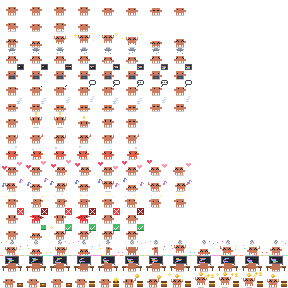
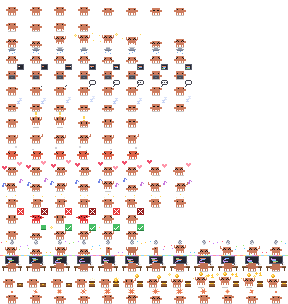
Clawd sprites: add clauding animation (spinner glyph cycle)
Claude-Session: https://claude.ai/code/session_012EE4yLBMHANjgeoVrutEYN

diff --git a/art/clawd/generate.py b/art/clawd/generate.py
@@ -612,6 +612,39 @@ def anim_claiming():
     return frames, 8
 
 
+def spinner_glyph(cv, stage, rot, cx=11.5, cy=3.5):
+    """Pixel take on Claude Code's spinner: · ✢ ✳ ✶ ✻ ✽ (stage 0-5)."""
+    import math
+    core, tip = (232, 128, 92, 255), (255, 196, 160, 255)
+    cv.rect(11, 3, 12, 4, core)
+    if stage == 0:
+        return
+    rays, length = [(4, 2.2), (8, 2.2), (6, 3.4), (8, 3.4), (8, 3.9)][stage - 1]
+    for k in range(rays):
+        ang = rot + k * 2 * math.pi / rays
+        t = 1.0
+        while t <= length:
+            x, y = cx + t * math.cos(ang), cy + t * math.sin(ang)
+            if math.floor(y) <= 5:  # keep a gap above the head
+                cv.px(math.floor(x), math.floor(y), tip if t > length - 0.6 else core)
+            t += 0.5
+
+
+def anim_clauding():
+    import math
+    stages = [0, 1, 2, 3, 4, 5, 5, 4, 3, 2, 1, 0]
+    frames = []
+    for i, st in enumerate(stages):
+        cv = Canvas()
+        spinner_glyph(cv, st, rot=i * math.pi / 12)
+        sq = (0, 0, 1, 1)[i % 4]
+        arms = (-1, 0) if i % 2 == 0 else (0, -1)
+        eyes = "closed" if i == 9 else ("happy" if st == 5 else "open")
+        clawd(cv, squash=sq, eyes=eyes, arms=arms)
+        frames.append(cv.img)
+    return frames, 8
+
+
 ANIMS = {
     "idle": anim_idle,
     "walk": anim_walk,
@@ -631,6 +664,7 @@ ANIMS = {
     "dance_v2": anim_dance_v2,
     "coding_v2": anim_coding_v2,
     "claiming": anim_claiming,
+    "clauding": anim_clauding,
 }
 
 

diff --git a/art/clawd/README.md b/art/clawd/README.md
@@ -23,6 +23,7 @@ Pixel-art animations of Clawd, drawn at native resolution (1 px = 1 block: 8×6 
 | dance_v2  | 12 | 10 |
 | coding_v2 | 12 | 10 |
 | claiming  | 12 | 8  |
+| clauding  | 12 | 8  |
 
 - `sheets/<anim>.png` – horizontal strip, 1×, transparent (use with nearest-neighbour scaling)
 - `sheets/<anim>@10x.png` – same strip at 10×
